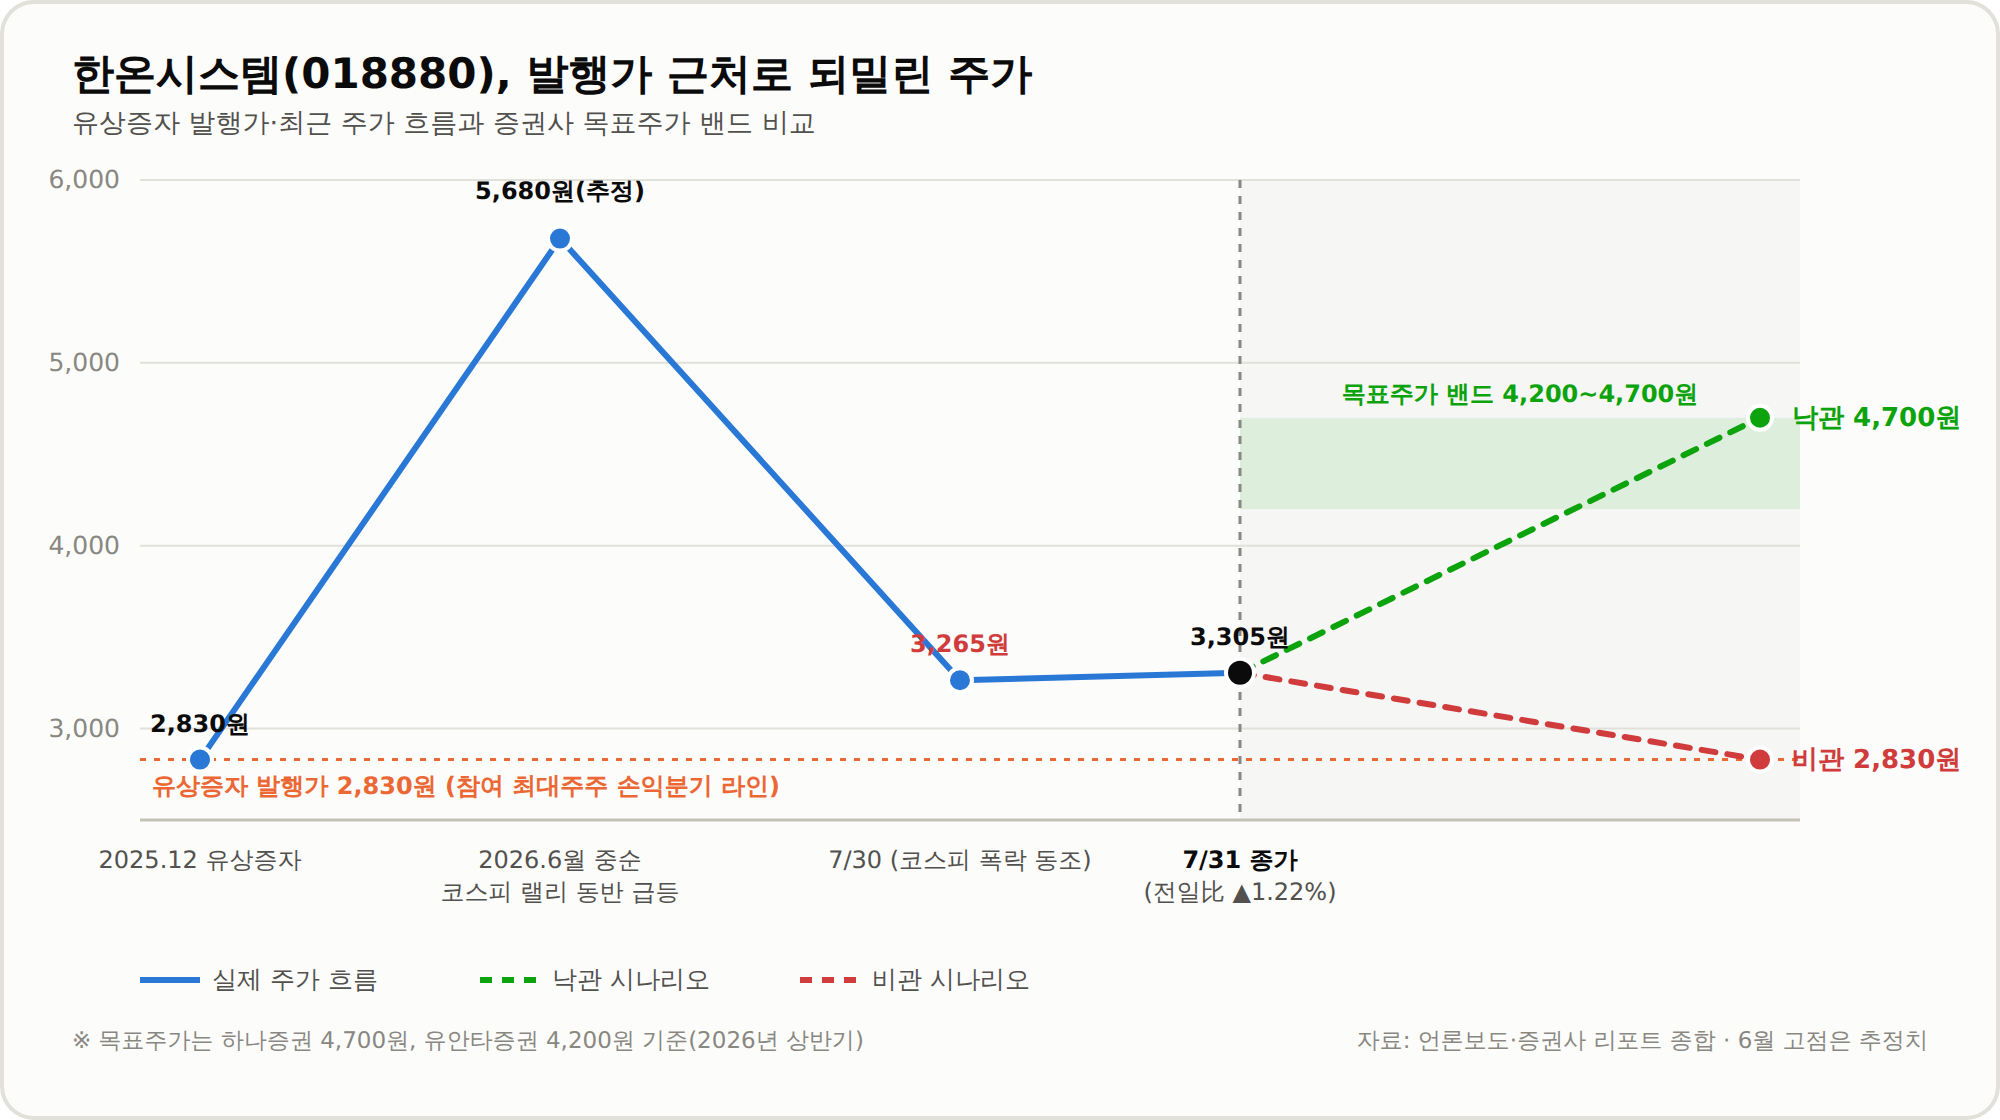
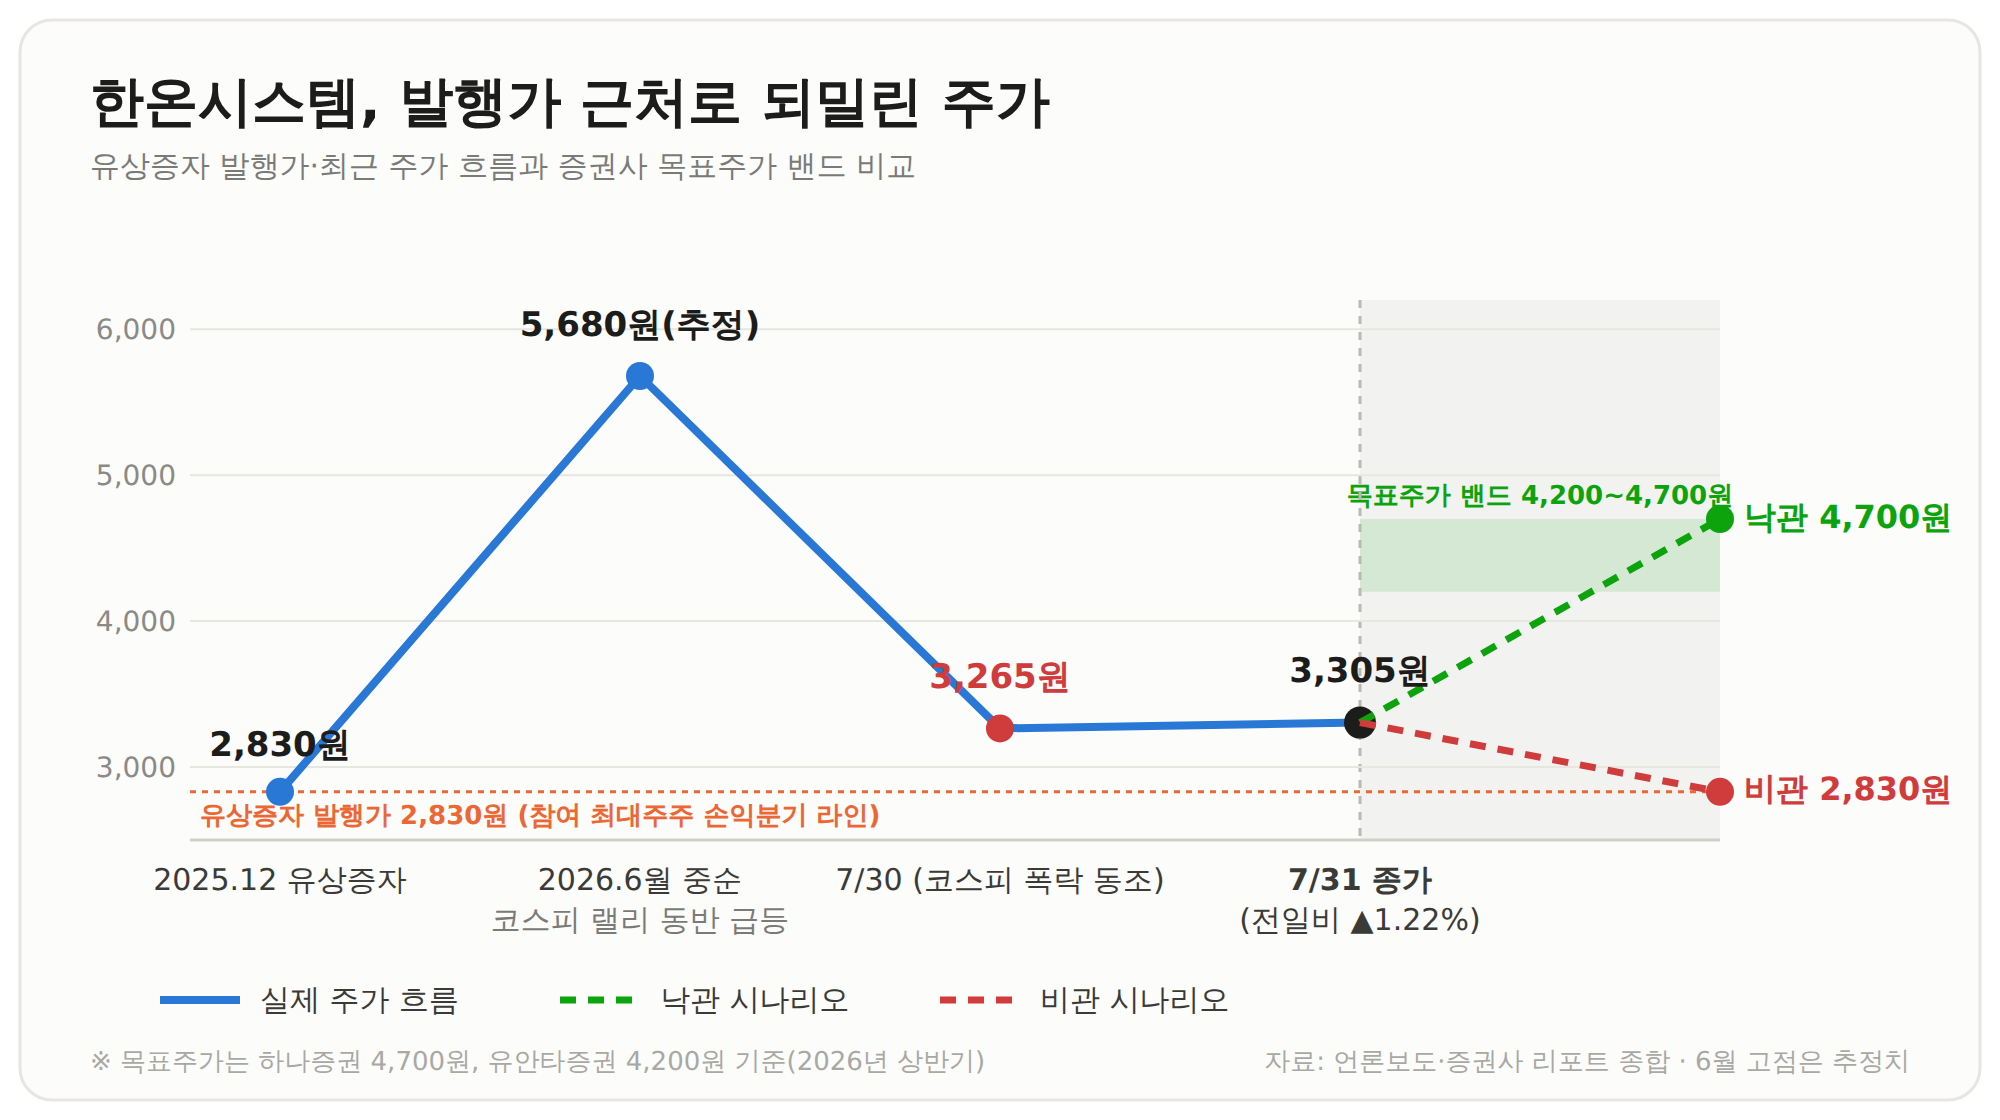
fix: 차트 이미지에 박혀 있던 종목번호·"오늘" 텍스트 제거
- 커버 이미지 다음으로, 실제 차트 이미지 3개에도 텍스트가 그림으로
  박혀 있던 문제 수정:
  - ecopro-price-trend.png: x축 라벨의 "2026.8.6(오늘)" → "2026.8.6"
  - hanon-price-target.png: 제목의 "한온시스템(018880)" → "한온시스템"
  - kospi-trend-2026.png: x축 라벨의 "오늘(8/6)" → "8/6"
  SVG로 재작성 후 Playwright 2x 렌더링으로 PNG 재생성(SVG는 커밋하지
  않음, CLAUDE.md PNG 컨벤션 준수)
- 한온시스템 글 본문에도 남아있던 "오늘(8월 6일)" 표기를 "8월 6일"로
  수정(에코프로 글에서 이미 고친 것과 동일한 문제)
- posts/*.md ↔ src/App.tsx 동기화, marked.parse() 전수 재검증
  (** 누출·괄호 불일치 0건), npm run build 통과

Claude-Session: https://claude.ai/code/session_01WzxL9fDSxe2pwdrpmEY5Nh

diff --git a/src/App.tsx b/src/App.tsx
@@ -468,7 +468,7 @@ const samplePosts: Post[] = [
 - **7월 31일**: 저점 대비 **+17.91%, 역대 최고 일간 상승률**로 급반등
 - **8월 3일**: 차익실현 매물 + 반도체 업종 약세(-8.71%) + 외국인·기관 대규모 매도(각각 -2.8조 원, -1.9조 원)로 **-5.12%** 재급락, 6,257.45 마감
 - **8월 5일**: 미국 증시 훈풍에 힘입어 **+3.76%** 반등, 6,598.26 마감
-- **오늘(8월 6일)**: 6,600선 안착을 시도하는 국면
+- **8월 6일**: 6,600선 안착을 시도하는 국면
 
 한 마디로 "**9,000 찍고 6,000대로 고꾸라졌다가, 지금은 6,600선에서 방향을 탐색 중**"인 시장입니다. 증권가에서는 7월 급락이 펀더멘털 대비 과도했다는 평가와 함께 8월 중 7,000선 재도전 가능성을 이야기하지만, 동시에 반도체 피크아웃 우려·금리 인상 우려(8월 금통위)가 여전히 변수로 남아 있어 **변동성 자체는 당분간 계속될 가능성**이 높습니다.
 

diff --git a/posts/stock/hanon-systems-analysis.md b/posts/stock/hanon-systems-analysis.md
@@ -27,7 +27,7 @@ naverCategory: "국내주식"
 - **7월 31일**: 저점 대비 **+17.91%, 역대 최고 일간 상승률**로 급반등
 - **8월 3일**: 차익실현 매물 + 반도체 업종 약세(-8.71%) + 외국인·기관 대규모 매도(각각 -2.8조 원, -1.9조 원)로 **-5.12%** 재급락, 6,257.45 마감
 - **8월 5일**: 미국 증시 훈풍에 힘입어 **+3.76%** 반등, 6,598.26 마감
-- **오늘(8월 6일)**: 6,600선 안착을 시도하는 국면
+- **8월 6일**: 6,600선 안착을 시도하는 국면
 
 한 마디로 "**9,000 찍고 6,000대로 고꾸라졌다가, 지금은 6,600선에서 방향을 탐색 중**"인 시장입니다. 증권가에서는 7월 급락이 펀더멘털 대비 과도했다는 평가와 함께 8월 중 7,000선 재도전 가능성을 이야기하지만, 동시에 반도체 피크아웃 우려·금리 인상 우려(8월 금통위)가 여전히 변수로 남아 있어 **변동성 자체는 당분간 계속될 가능성**이 높습니다.
 
